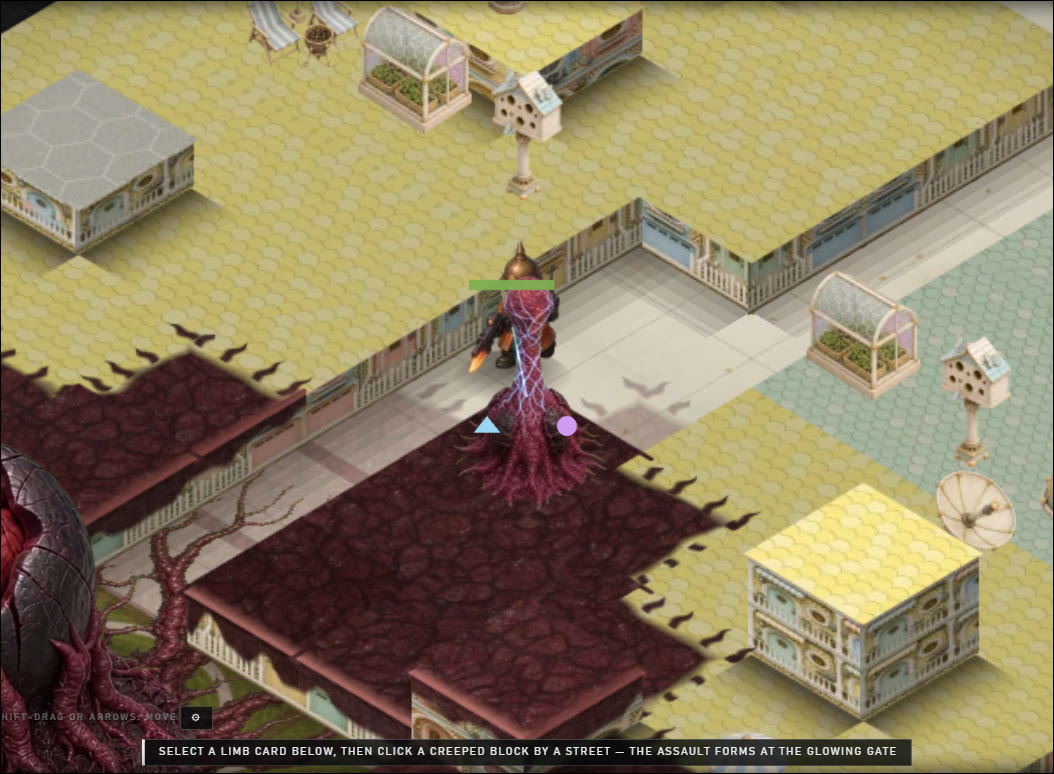
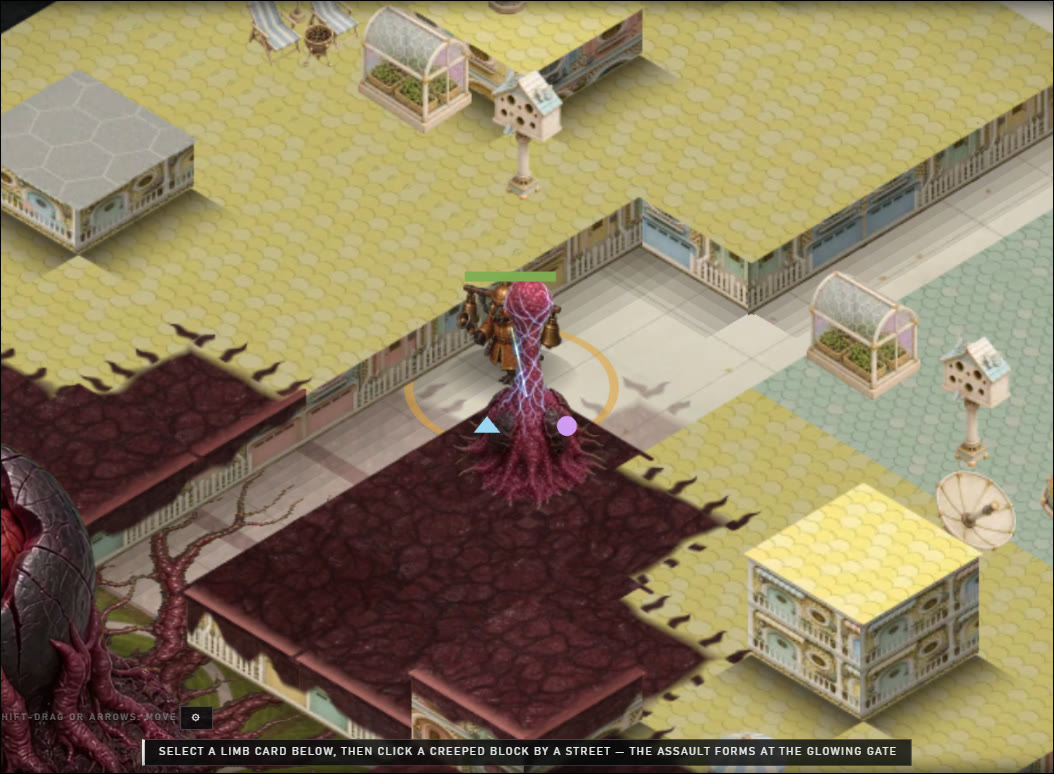
Broodfall: sweep of in-flight work from the sound, story, firing and idle sessions

diff --git a/games/broodfall/src/render/isoRender.ts b/games/broodfall/src/render/isoRender.ts
@@ -28,6 +28,7 @@ import { FxLayer, type FxView } from './fx';
 import { LimbFates } from './limbFx';
 import { CreepLife, GateArt, PlinthRise, PodArt, Skyline } from './boardArt';
 import { coreStageOf } from './coreStage';
+import { breath, idleFrames, idleStep, phaseOf } from './idleClock';
 import { CALM } from '../meta/settings';
 
 /** The old marks were drawn for a 26 px cell; on this board they are drawn this much bigger. */
@@ -114,7 +115,9 @@ interface AllyView {
 const LIE_STILL = 1.4;
 const FADE = 0.6;
 interface LimbView {
-  sprite: Sprite; shade: Sprite; art: LimbArt; family: string;
+  sprite: Sprite; shade: Sprite;
+  /** The idle's next frame, laid over `sprite` by how far between the two the idle clock is (src/render/idleClock.ts). */
+  over: Sprite; art: LimbArt; family: string;
   cooldown: number; fireT: number; fireDur: number; seen: number;
   /** The way it faces in the WORLD: when the camera turns, another side of it is seen. */
   facing: Facing;
@@ -172,6 +175,8 @@ export class IsoRenderer extends Renderer {
   private frameNo = 0;
   private lastSimTime = 0;
   private simClock = 0;
+  /** The idles' clock (src/render/idleClock.ts): real time, frozen by a pause, at most 1.5x at speed. */
+  private idleClock = 0;
 
   /** The player's own zoom and pan, on top of the framing of the claimed districts. */
   private zoom = 1;
@@ -446,6 +451,7 @@ export class IsoRenderer extends Renderer {
     const dt = Math.max(0, Math.min(1, sim.time - this.lastSimTime));
     this.lastSimTime = sim.time;
     this.simClock += dt;
+    this.idleClock += idleStep(dt, dtReal);
     this.fx.begin(dt);
 
     this.updateCamera(sim, dtReal);
@@ -1174,7 +1180,7 @@ export class IsoRenderer extends Renderer {
       const p0 = project(g, t.pos.x, t.pos.y, h);
       const found = this.art.limbs.get(t.family);
       let v = this.limbs.get(t.id);
-      if (v && v.family !== t.family) { v.sprite.destroy(); v.shade.destroy(); this.fates.drop(t.id); this.limbs.delete(t.id); v = undefined; }
+      if (v && v.family !== t.family) { v.sprite.destroy(); v.over.destroy(); v.shade.destroy(); this.fates.drop(t.id); this.limbs.delete(t.id); v = undefined; }
       if (!found) {
         // No picture of this limb: its old shape, at the size of the rest.
         this.drawTowerBody(this.marksG, t, p0.x / K, (p0.y - 20) / K, sim);
@@ -1187,8 +1193,10 @@ export class IsoRenderer extends Renderer {
         const shade = new Sprite(this.shade());
         shade.anchor.set(0.5, 0.5);
         shade.visible = !art.flat;
-        (art.flat ? this.flat : this.sorted).addChild(shade, sprite);
-        v = { sprite, shade, art, family: t.family, cooldown: t.cooldown, fireT: -1, fireDur: 0, seen: 0, facing: this.facingOfLimb(sim, t, undefined), ent: t, back: false, atlas };
+        const over = new Sprite(sprite.texture);
+        over.alpha = 0;
+        (art.flat ? this.flat : this.sorted).addChild(shade, sprite, over);
+        v = { sprite, over, shade, art, family: t.family, cooldown: t.cooldown, fireT: -1, fireDur: 0, seen: 0, facing: this.facingOfLimb(sim, t, undefined), ent: t, back: false, atlas };
         this.limbs.set(t.id, v);
       }
       v.seen = this.frameNo;
@@ -1250,20 +1258,31 @@ export class IsoRenderer extends Renderer {
       v.cooldown = t.cooldown;
       const fire = side.anims.fire ?? art.anims.fire;
       let tex: Texture;
+      let next: Texture | null = null;
+      let blend = 0;
+      const idle = side.anims.idle;
       if (v.fireT >= 0 && fire && !held) {
         v.fireT += dt;
         const f = Math.min(fire.count - 1, Math.floor((v.fireT / v.fireDur) * fire.count));
         tex = atlas.frame(fire.start + f, art.frame, art.cols);
         if (v.fireT >= v.fireDur) v.fireT = -1;
       } else {
-        const at = held ? 0 : (this.simClock + t.id * 0.37) * side.anims.idle.fps * Math.max(0.6, Math.min(2.5, stats.rate > 0 ? stats.rate / Math.max(0.01, towerSpec(t.family).rate) : 1));
-        tex = this.frameOf(atlas, art, side.anims.idle, at);
+        // On the idles' clock (real time, capped at 1.5x), from its own phase, cross-faded frame to
+        // frame. A buff no longer speeds it (it multiplied with the game's speed); a held limb stands still.
+        const at = idleFrames(idle, this.idleClock, phaseOf(t.id));
+        tex = atlas.frame(held ? idle.start : at.a, art.frame, art.cols);
+        if (!held && at.f > 0.02 && at.b !== at.a) { next = atlas.frame(at.b, art.frame, art.cols); blend = at.f; }
       }
       v.sprite.texture = tex;
 
       // The point of the picture that stands on the middle of its ground is the middle of what it stands on.
       v.sprite.anchor.set(side.anchor[0], side.anchor[1]);
       v.sprite.scale.set(mirror ? -scale : scale, scale);
+      // An idle that barely moves breathes a little about its foot (src/render/idleClock.ts).
+      if (idle.breathe && v.fireT < 0 && !held) {
+        const [bx, by] = breath(this.idleClock, phaseOf(t.id));
+        v.sprite.scale.set(v.sprite.scale.x * bx, v.sprite.scale.y * by);
+      }
       // A limb on a roof rising on its plinth rises with it.
       v.sprite.position.set(p.x, p.y + this.rise.drop(t.cell) * g.level);
       // It is as far back as the nearest to the camera of the cells it stands on.
@@ -1281,6 +1300,17 @@ export class IsoRenderer extends Renderer {
       // A seedling in the air is not on its roof yet.
       const flying = sim.seedFlights.some((f) => f.towerId === t.id);
       v.sprite.visible = !flying;
+      // The idle's next frame over this one (a cross-fade), exactly where and as it is.
+      v.over.visible = !flying && next !== null;
+      if (next) {
+        v.over.texture = next;
+        v.over.alpha = blend;
+        v.over.anchor.copyFrom(v.sprite.anchor);
+        v.over.scale.copyFrom(v.sprite.scale);
+        v.over.position.copyFrom(v.sprite.position);
+        v.over.zIndex = v.sprite.zIndex;
+        v.over.tint = v.sprite.tint;
+      }
       v.shade.visible = !flying && !art.flat;
       // The parts of the limbs it was built from, grafted on its body.
       if (!art.flat) this.fates.graft(this.sorted, t, art, side, p.x, p.y, scale, mirror, width, v.sprite.zIndex, v.sprite.visible, v.sprite.tint as number);
@@ -1290,6 +1320,7 @@ export class IsoRenderer extends Renderer {
     for (const [id, v] of this.limbs) {
       if (v.seen === this.frameNo) continue;
       this.limbs.delete(id);
+      v.over.destroy();
       // Gone from the board: carried off by the researcher that tore it out, or withered where it stood.
       const thief = sim.enemies.find((e) => e.carrying && e.carrying.cell === v.ent.cell && e.carrying.family === v.ent.family);
       const to = thief ? project(g, thief.pos.x, thief.pos.y, this.heightAt(sim, thief.pos.x, thief.pos.y)) : null;

diff --git a/games/broodfall/src/render/idleClock.ts b/games/broodfall/src/render/idleClock.ts
@@ -1,0 +1,66 @@
+/**
+ * THE IDLES' CLOCK (Sep 30 2026, notes/screens/2026-09-30/anim-README.md). How a looping idle
+ * (a limb's, the core's) is played, apart from the game's clock:
+ *
+ *   - it runs on REAL time: a paused game still freezes it, but at 3x or 8x it plays at most
+ *     IDLE_MAX_RATE times its art's speed (it played 3 to 8 times faster, and a buff multiplied that);
+ *   - each limb starts at its own phase, drawn from its id (a family used to pulse in step);
+ *   - it is drawn as two frames, the next laid over this one by how far between them the clock is
+ *     (a cross-fade: no stop-motion step between frames);
+ *   - a clip baked `pingpong` (tools/art/templates/limb.mjs: an idle that drifts one way and has no
+ *     loop in it) plays forward and back, eased at its ends so it breathes out and in, not bounces;
+ *   - a clip baked `breathe` (it barely moves: under 3% of it changes per step) swells a little
+ *     about its foot.
+ */
+
+/** A clip as the manifest gives it (src/render/art.ts Clip). */
+export interface IdleClip { start: number; count: number; fps: number; pingpong?: boolean; breathe?: boolean }
+
+/** How much faster than its art an idle may play when the game runs fast. */
+export const IDLE_MAX_RATE = 1.5;
+/** A ping-pong is played this much slower than its frames' own rate: its easing runs its middle faster (by pi/2 at the peak). */
+export const PONG_SLOW = 1.3;
+
+/** Seconds of idle time a frame adds: none while paused, real time at 1x and slower, at most IDLE_MAX_RATE times real time above. */
+export function idleStep(dtSim: number, dtReal: number): number {
+  if (dtSim <= 0 || dtReal <= 0) return 0;
+  return Math.min(dtSim, dtReal * IDLE_MAX_RATE, 0.25);
+}
+
+/** A phase in [0, 1) that is the same for the same id every time (a limb's start in its loop). */
+export function phaseOf(id: number): number {
+  let h = (Math.imul(id | 0, 0x9e3779b1) ^ 0x5bd1e995) >>> 0;
+  h = Math.imul(h ^ (h >>> 15), 0x85ebca6b) >>> 0;
+  h = Math.imul(h ^ (h >>> 13), 0xc2b2ae35) >>> 0;
+  return ((h ^ (h >>> 16)) >>> 0) / 4294967296;
+}
+
+/** The loop's length in seconds (a ping-pong's there and back). */
+export function idleLength(clip: IdleClip): number {
+  if (clip.pingpong && clip.count > 1) return (2 * (clip.count - 1) / clip.fps) * PONG_SLOW;
+  return clip.count / clip.fps;
+}
+
+/**
+ * The two frames to draw at idle time `t` (seconds) and phase `phase` (0-1): `a` under, `b` over
+ * it at alpha `f`. Both are atlas indices (the clip's start added).
+ */
+export function idleFrames(clip: IdleClip, t: number, phase = 0): { a: number; b: number; f: number } {
+  const n = Math.max(1, clip.count);
+  if (n === 1) return { a: clip.start, b: clip.start, f: 0 };
+  const u = (((t / idleLength(clip) + phase) % 1) + 1) % 1;
+  if (clip.pingpong) {
+    const pos = (n - 1) * (0.5 - 0.5 * Math.cos(2 * Math.PI * u));
+    const i = Math.min(n - 1, Math.floor(pos));
+    return { a: clip.start + i, b: clip.start + Math.min(n - 1, i + 1), f: pos - i };
+  }
+  const pos = u * n;
+  const i = Math.floor(pos) % n;
+  return { a: clip.start + i, b: clip.start + ((i + 1) % n), f: pos - Math.floor(pos) };
+}
+
+/** A near-still idle's breathing: [x, y] scale about its foot at idle time `t`, 1% taller and 0.5% narrower at the top of a breath. */
+export function breath(t: number, phase = 0): [number, number] {
+  const s = Math.sin(2 * Math.PI * (t / 3.4 + phase));
+  return [1 - 0.005 * s, 1 + 0.011 * s];
+}

diff --git a/games/broodfall/tools/reveal-state.ts b/games/broodfall/tools/reveal-state.ts
@@ -1,0 +1,35 @@
+/**
+ * A campaign played to the end of one route, as JSON on stdout: for looking at the reveal card
+ * (DESIGN.md "The reveal") in the real page without playing the whole route by hand.
+ *   npx vite-node tools/reveal-state.ts -- faithful > state.json
+ * Load it as localStorage 'broodfall-campaign' and open the ship: the ending, then the reveal.
+ */
+import { ally, finish, newCampaign, plan, targets, type CampaignState } from '../src/meta/campaign';
+import type { RunReport } from '../src/meta/goals';
+import type { FactionId } from '../content/campaign';
+import type { RunStats } from '../src/sim/types';
+
+const route = (process.argv.slice(2).filter((a) => a !== '--')[0] ?? 'faithful') as FactionId;
+const stats = (): RunStats => ({
+  kills: {}, killsByFamily: {}, killsByCause: {}, healed: 0, limbsGrown: 0, evolutions: 0, limbsLost: 0,
+  cannibalized: 0, coreMinFrac: 1, depositsClaimed: 0, earlyCalls: 0, maxLimbs: 0, maxBurning: 0, maxPips: 0,
+  families: [], pacifistWaves: 0, lastWaveKillsByCause: {}, royalsEaten: 0, matingStuns: 0, limbsCarriedOff: 0,
+  gateBurnKills: 0, royalsCaptured: 0, nodesPlaced: 0, nodesLost: 0,
+});
+const won = (): RunReport => ({ won: true, wavesCleared: 6, coreEndFrac: 0.8, scienceBanked: 0, stats: stats() });
+
+let s: CampaignState = newCampaign(11);
+s = finish(s, plan(s, targets(s)[0].id), won()).state;
+s = ally(s, route);
+for (let i = 0; i < 60 && !s.ended; i++) {
+  const t = targets(s);
+  const to = s.underAttack ?? (t.find((x) => x.finaleOf === route) ?? t.find((x) => !x.finaleOf) ?? t[0])?.id;
+  if (!to) break;
+  s = finish(s, plan(s, to), won()).state;
+  // Choices along the route: take the first option, so the route goes on.
+  const c = s.pendingScenes.find((p) => p.choice);
+  if (c && c.beat) s = { ...s, choices: { ...s.choices, [c.beat]: c.choice!.options[0].id } };
+}
+// Keep only the ending and the reveal waiting on the ship.
+s = { ...s, pendingScenes: s.pendingScenes.slice(-2) };
+process.stdout.write(JSON.stringify(s));
